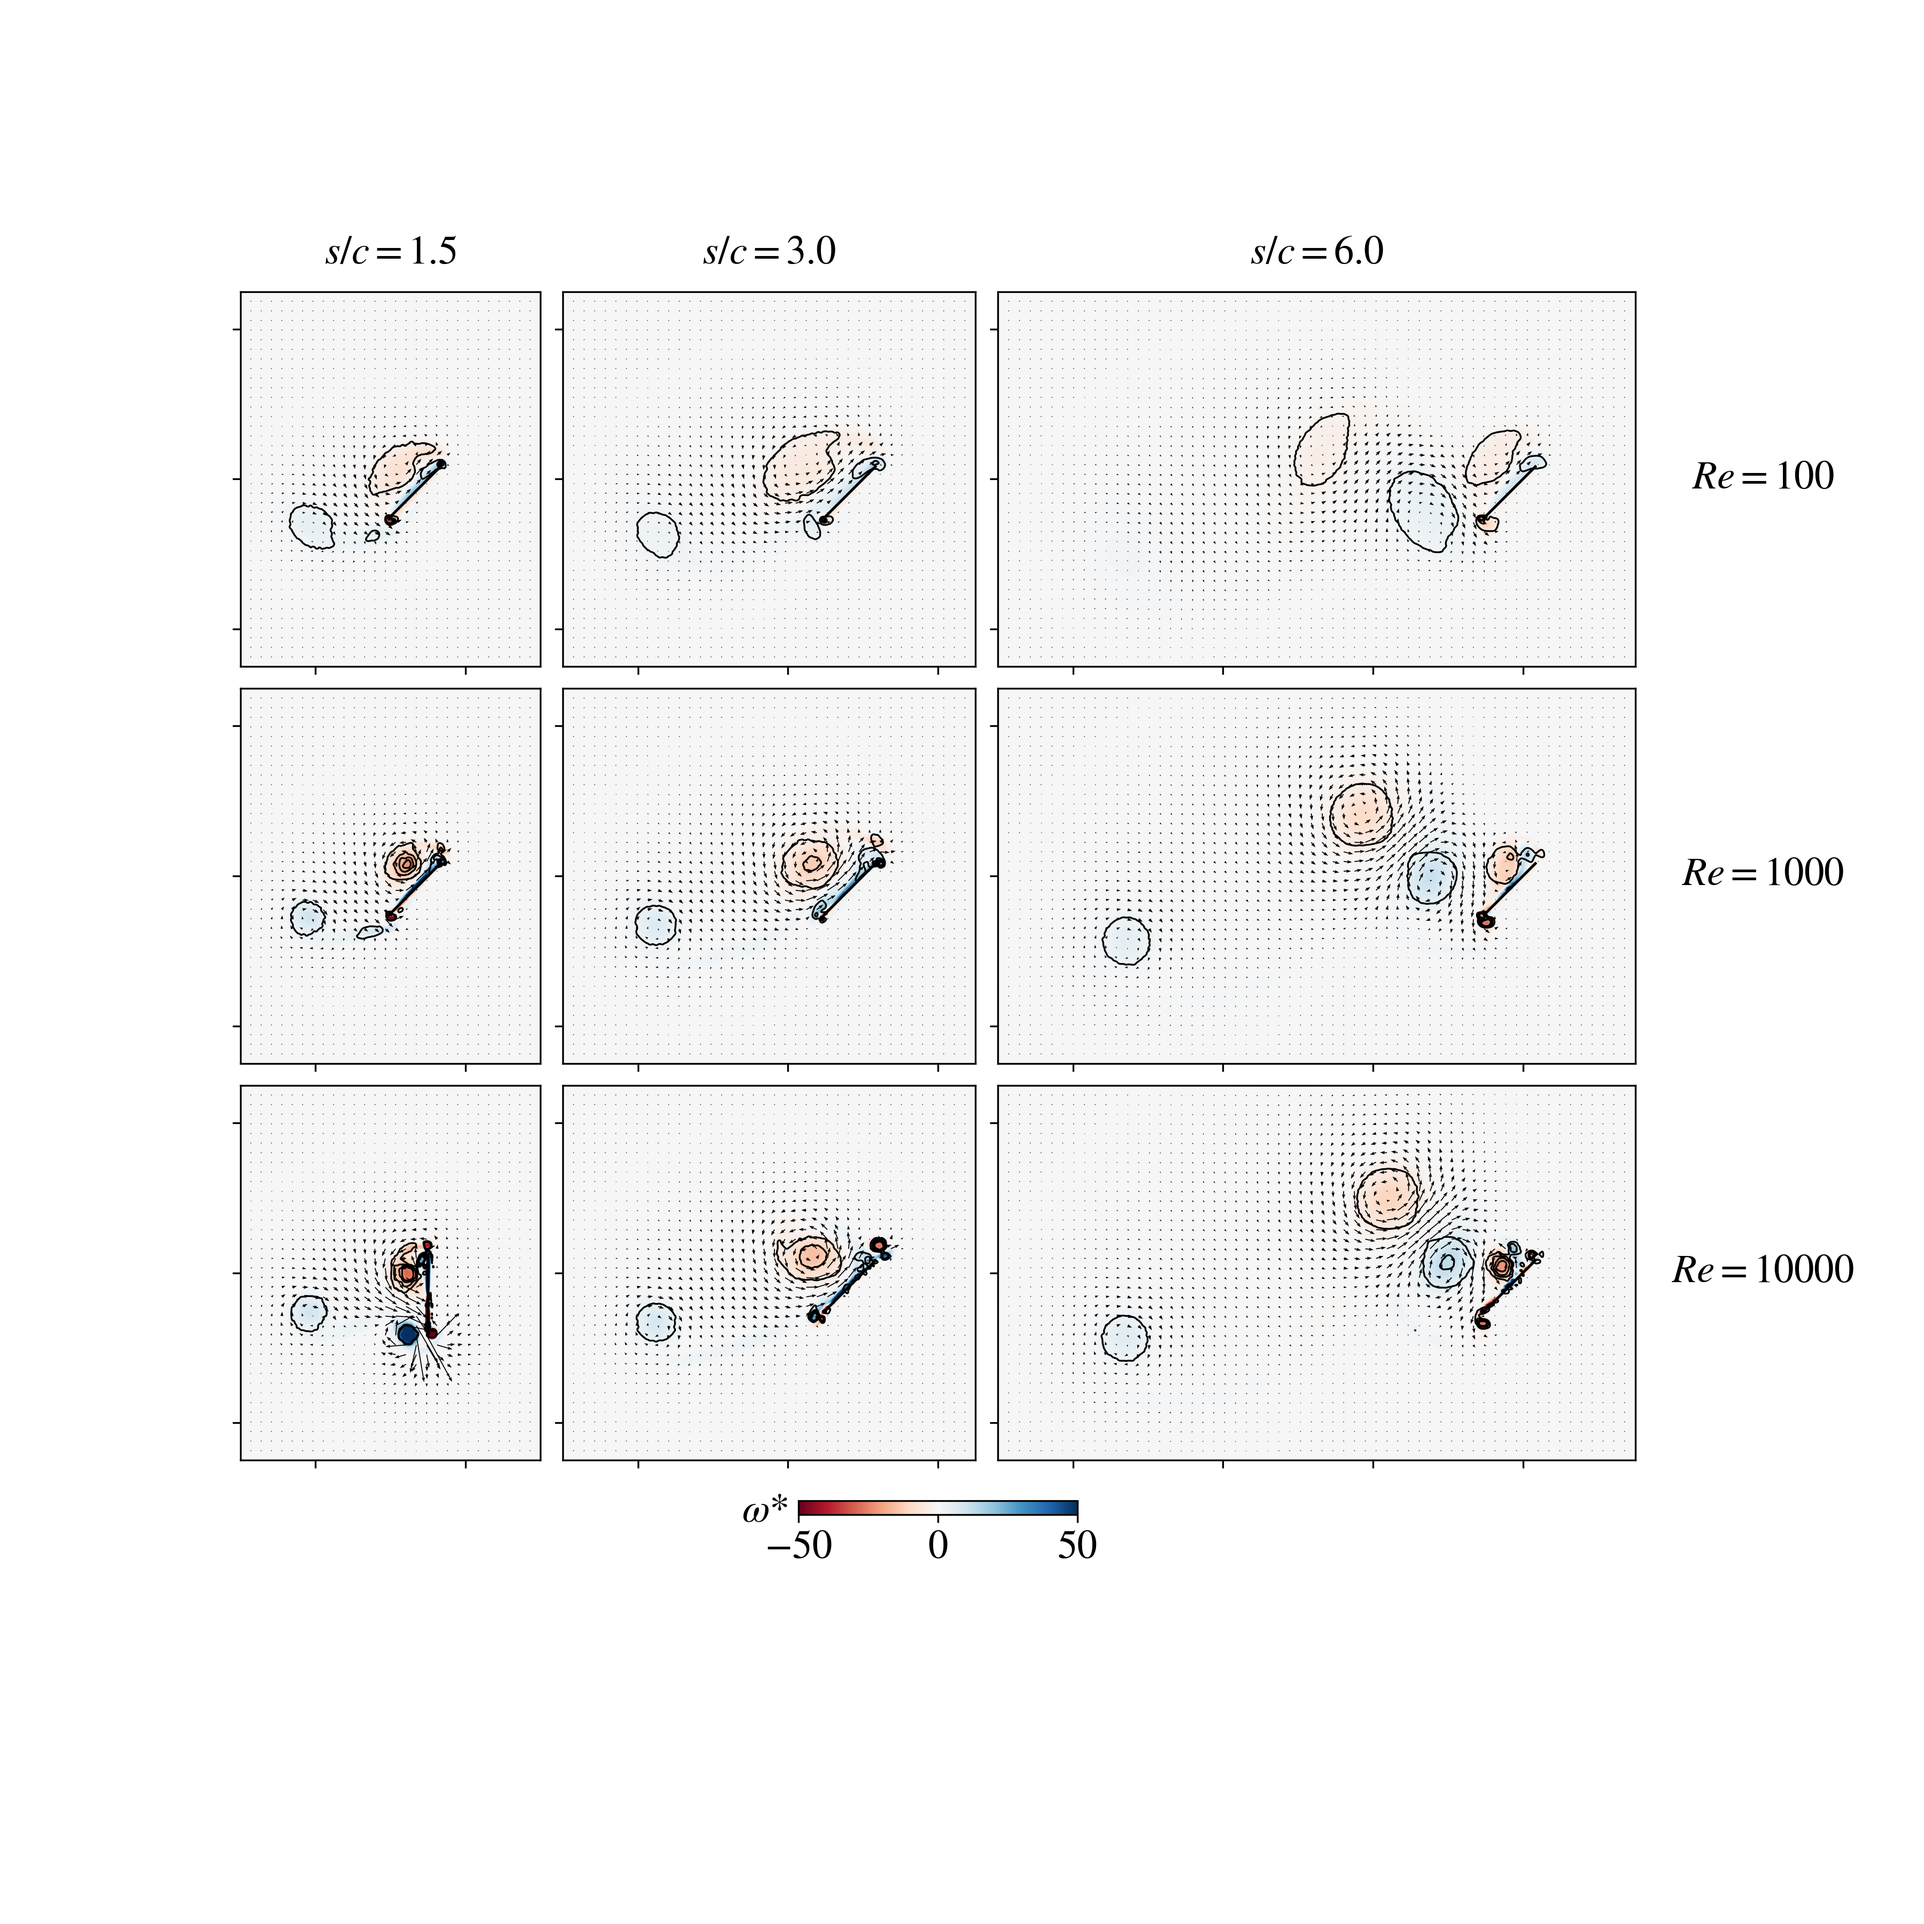
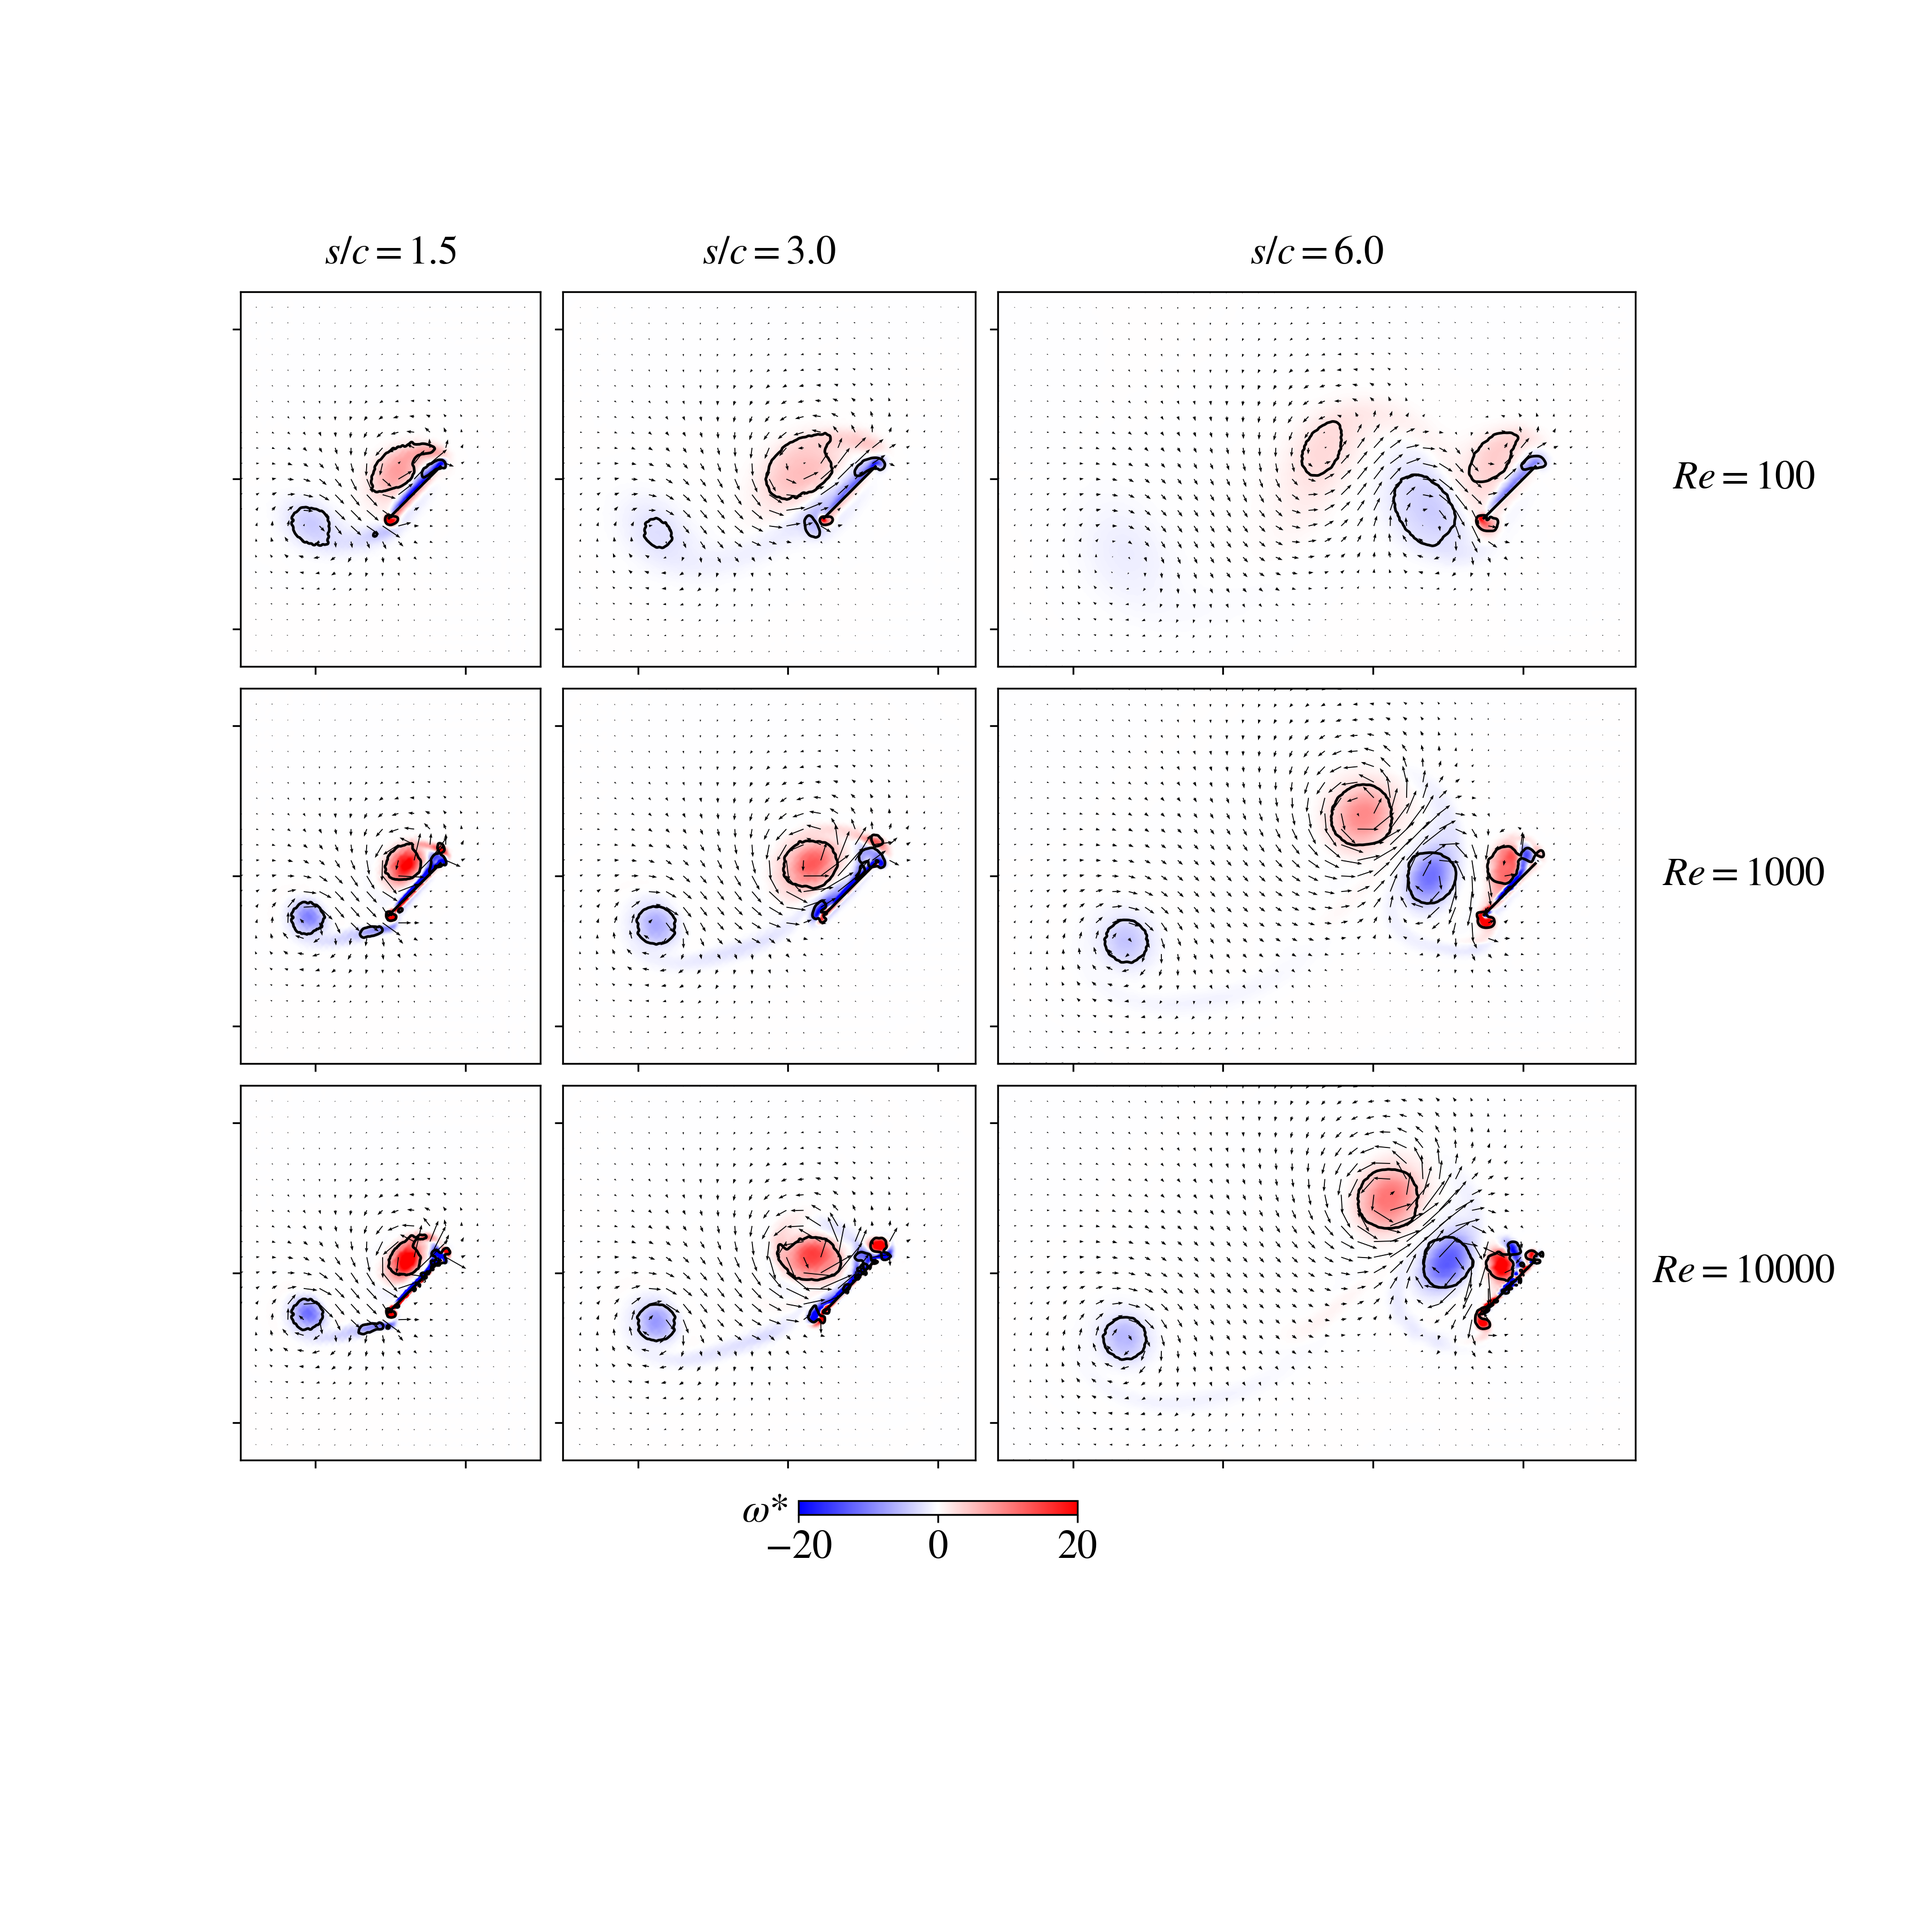
added diff pa wake flow

diff --git a/wake_convection_figures/figure_wake_structure_diffpa/field_processing_finctions.py b/wake_convection_figures/figure_wake_structure_diffpa/field_processing_finctions.py
@@ -148,7 +148,7 @@ def grid_ufield(window, resolution, ufield_array):
 
 
 def single_plot_field(images, axto_plot, window, grid_x, grid_y, sImgdata,
-                      sCtrdata, vdata, wdata, imnorm, levels):
+                      sCtrdata, vdata, wdata, imnorm, levels, quiver_scale):
     """plot one single field data"""
     images.append(
         axto_plot.imshow(sImgdata,
@@ -171,7 +171,7 @@ def single_plot_field(images, axto_plot, window, grid_x, grid_y, sImgdata,
                      vdata[0],
                      vdata[1],
                      units='height',
-                     scale=20,
+                     scale=quiver_scale,
                      width=0.0025,
                      headwidth=3.5)
 
@@ -199,7 +199,7 @@ def field_plot(windows, field_data, wgeo_data, marks, oimage_file, mode):
         'mathtext.fontset': 'stix',
         'font.family': 'STIXGeneral',
         'font.size': 18,
-        'figure.figsize': (12, 12),
+        'figure.figsize': (12, 8),
         'lines.linewidth': 0.5,
         'lines.markersize': 0.1,
         'lines.markerfacecolor': 'white',
@@ -241,9 +241,17 @@ def field_plot(windows, field_data, wgeo_data, marks, oimage_file, mode):
             sImgdatai = gaussian_filter(sImgdatai, sigma=3.0)
             sCtrdatai = zoom(sCtrdatai, zoom_order)
             sCtrdatai = gaussian_filter(sCtrdatai, sigma=3.0)
+
+            if ci == 0:
+                quiver_scale = 50
+            elif ci == 1:
+                quiver_scale = 35
+            else:
+                quiver_scale = 20
+
             single_plot_field(images, axre, windows[ci], grid_x, grid_y,
                               sImgdatai, sCtrdatai, vdatai, wdatai, imnorm,
-                              levels)
+                              levels, quiver_scale)
 
             axre.set_xticklabels([])
             axre.set_yticklabels([])
@@ -260,8 +268,8 @@ def field_plot(windows, field_data, wgeo_data, marks, oimage_file, mode):
                               annotation_clip=False)
 
             if ci == no_c - 1:
-                markx_loc = axre.get_xlim()[1] + 0.17 * (axre.get_xlim()[1] -
-                                                        axre.get_xlim()[0])
+                markx_loc = axre.get_xlim()[1] + 0.12 * (axre.get_xlim()[1] -
+                                                         axre.get_xlim()[0])
                 marky_loc = axre.get_ylim()[0] + 0.5 * (axre.get_ylim()[1] -
                                                         axre.get_ylim()[0])
                 axre.annotate(s=markre[ri],

diff --git a/wake_convection_figures/figure_wake_structure_diffpa/flow_field_figure.py b/wake_convection_figures/figure_wake_structure_diffpa/flow_field_figure.py
@@ -24,19 +24,20 @@ resolution_vector = [res_vector_sc15, res_vector_sc30, res_vector_sc60]
 Uref = [1.786, 3.571, 7.143]  #--ref velocity--
 data_time_increment = 0.1
 #--------data parameters------------
-Re = [100.0, 1000.0, 10000.0]
+Re = [10000.0]
 stroke = [1.5, 3.0, 6.0]
-pa = [0.0]
+pa = [45.0, 90.0]
 #-----------------------------------
 windows = [window_sc15, window_sc30, window_sc60]
 marksc = [r'$s/c = ' + '{0:.1f}'.format(x) + '$' for x in stroke]
-markpa = [r'$Re = ' + '{0:.0f}'.format(x) + '$' for x in Re]
+markpa = [r'$\theta = ' + '{0:.0f}'.format(x) + '\degree$' for x in pa]
 marks = [marksc, markpa]
 #-----------------------------------
 cwd = os.getcwd()
 data_dir = os.path.join(os.path.dirname(os.path.dirname(os.path.dirname(cwd))),
                         'wake_convection_data/4_FIELD_RESULTS')
-oimage_file = os.path.join(cwd, 'wake_structure_pa0.png')
+oimage_file = os.path.join(
+    cwd, 'wake_structure_dpa_Re' + '{0:.0f}'.format(Re[0]) + '.png')
 #-----------------------------------
 fdata_all = []
 wdata_all = []
@@ -45,13 +46,16 @@ for si, window, Urefi, res_vectori in zip(stroke, windows, Uref,
     #------read data for each Re-------------
     fdata_si = []
     wdata_si = []
-    for rei in Re:
-        pf = 0.25
+    for pai in pa:
+        if pai == 45.0:
+            pf = 0.125
+        else:
+            pf = 0.25
 
         case_name_t10 = 'Re' + '{0:.1f}'.format(
-            rei) + '_stroke' + '{0:.1f}'.format(
+            Re[0]) + '_stroke' + '{0:.1f}'.format(
                 si) + '_acf0.25_pf' + '{0:.3g}'.format(
-                    pf) + '_pa' + '{0:.1f}'.format(pa[0])
+                    pf) + '_pa' + '{0:.1f}'.format(pai)
 
         case_dir = os.path.join(data_dir, case_name_t10)
         vorz_folder = os.path.join(case_dir, 'vorz_data')
